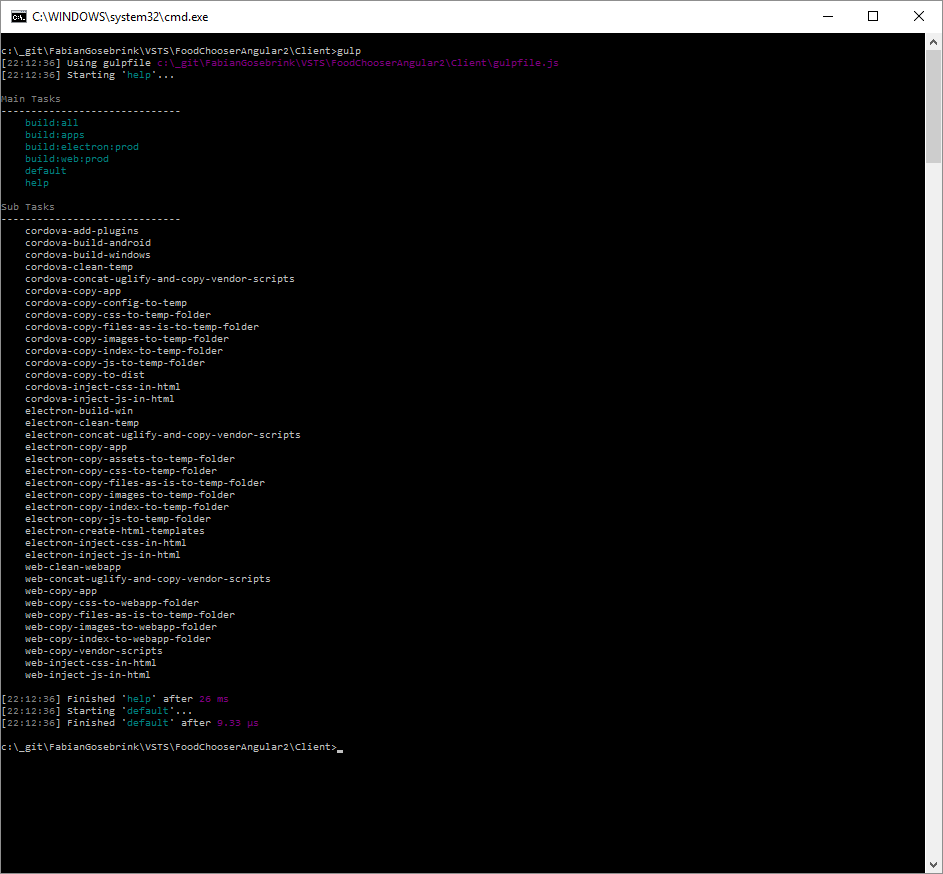
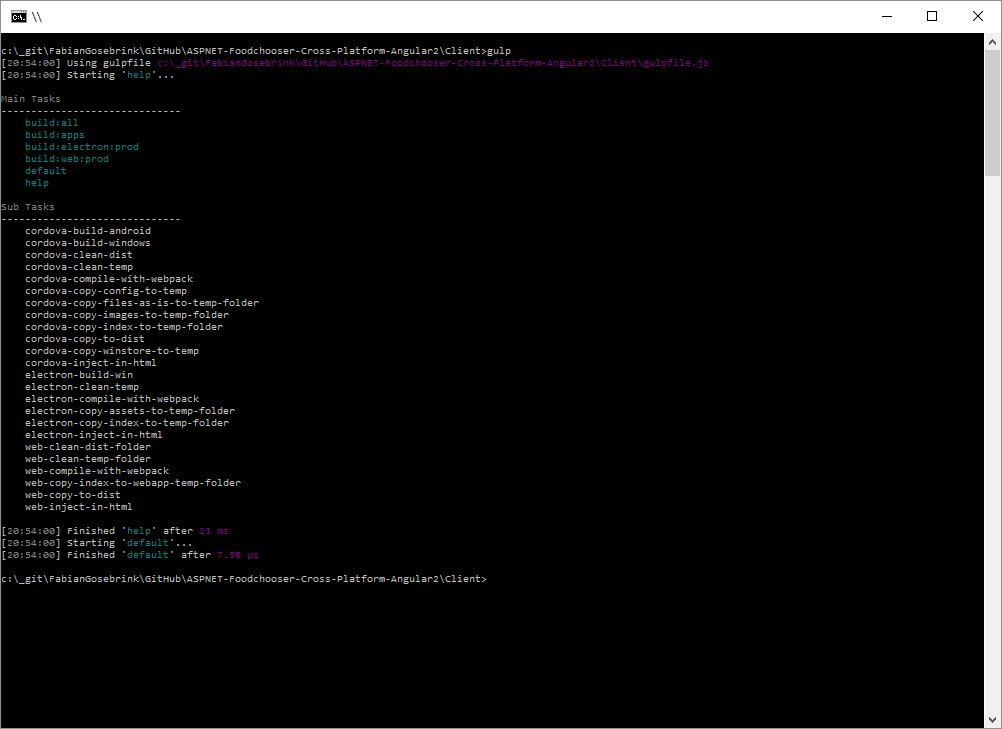
updated readme.md

diff --git a/Client/app/shared/app.constants.ts b/Client/app/shared/app.constants.ts
@@ -1,7 +1,7 @@
 export let CONFIGURATION = {
   baseUrls: {
-    //server: 'http://localhost:9072/',
-    server: 'https://newfoodchooser.azurewebsites.net/',
+    server: 'http://localhost:9072/',
+    //server: 'https://newfoodchooser.azurewebsites.net/',
     apiUrl: 'api/'
   }
 }

diff --git a/README.MD b/README.MD
@@ -15,6 +15,7 @@
 * Typescript
 * Bootstrap
 * Automapper
+* WebPack
 * WebAPI 2.2
 * Gulp.js
 * NPM 
@@ -27,6 +28,7 @@
 * Cordova (for the Apps)
 * Electron (for the exe)
 * Gulp (for the web application)
+* WebPack (for the web application)
 * ASP.NET WebAPI (for the backend)
 
 ### Feel free to add gulp tasks as you want :)
@@ -35,15 +37,34 @@
 
 # Start
 
-Navigate to the "Client"-Folder and type in <pre>npm install</pre> to install all dependencies and <pre>npm start</pre> to start the application.
+Navigate to the "Client"-Folder and type in 
+```
+npm install
+```
+and
+```
+tsc
+```
+to install all dependencies and run 
 
-Dont forget to start the api server first ;-)
+```
+npm start
+```
+and browser to "localhost:8080" to start the application.
+
+![Alternativtext](_gitAssets/webpack-server.png "GulpTasks")
+
+Don't forget to start the api server first ;-)
 
 If you want to start right ahead with the gulp tasks listed above just make sure you ran the <pre>tsc</pre> command in the client folder first.
 
 # Gulp
 
-Navigate to the "Client"-Folder and type in <pre>gulp</pre> to get a ist of all the tasks available
+Navigate to the "Client"-Folder and type in 
+```
+gulp
+```
+ to get a ist of all the tasks available
 
 ![Alternativtext](_gitAssets/gulpTasks.png "GulpTasks")
 
